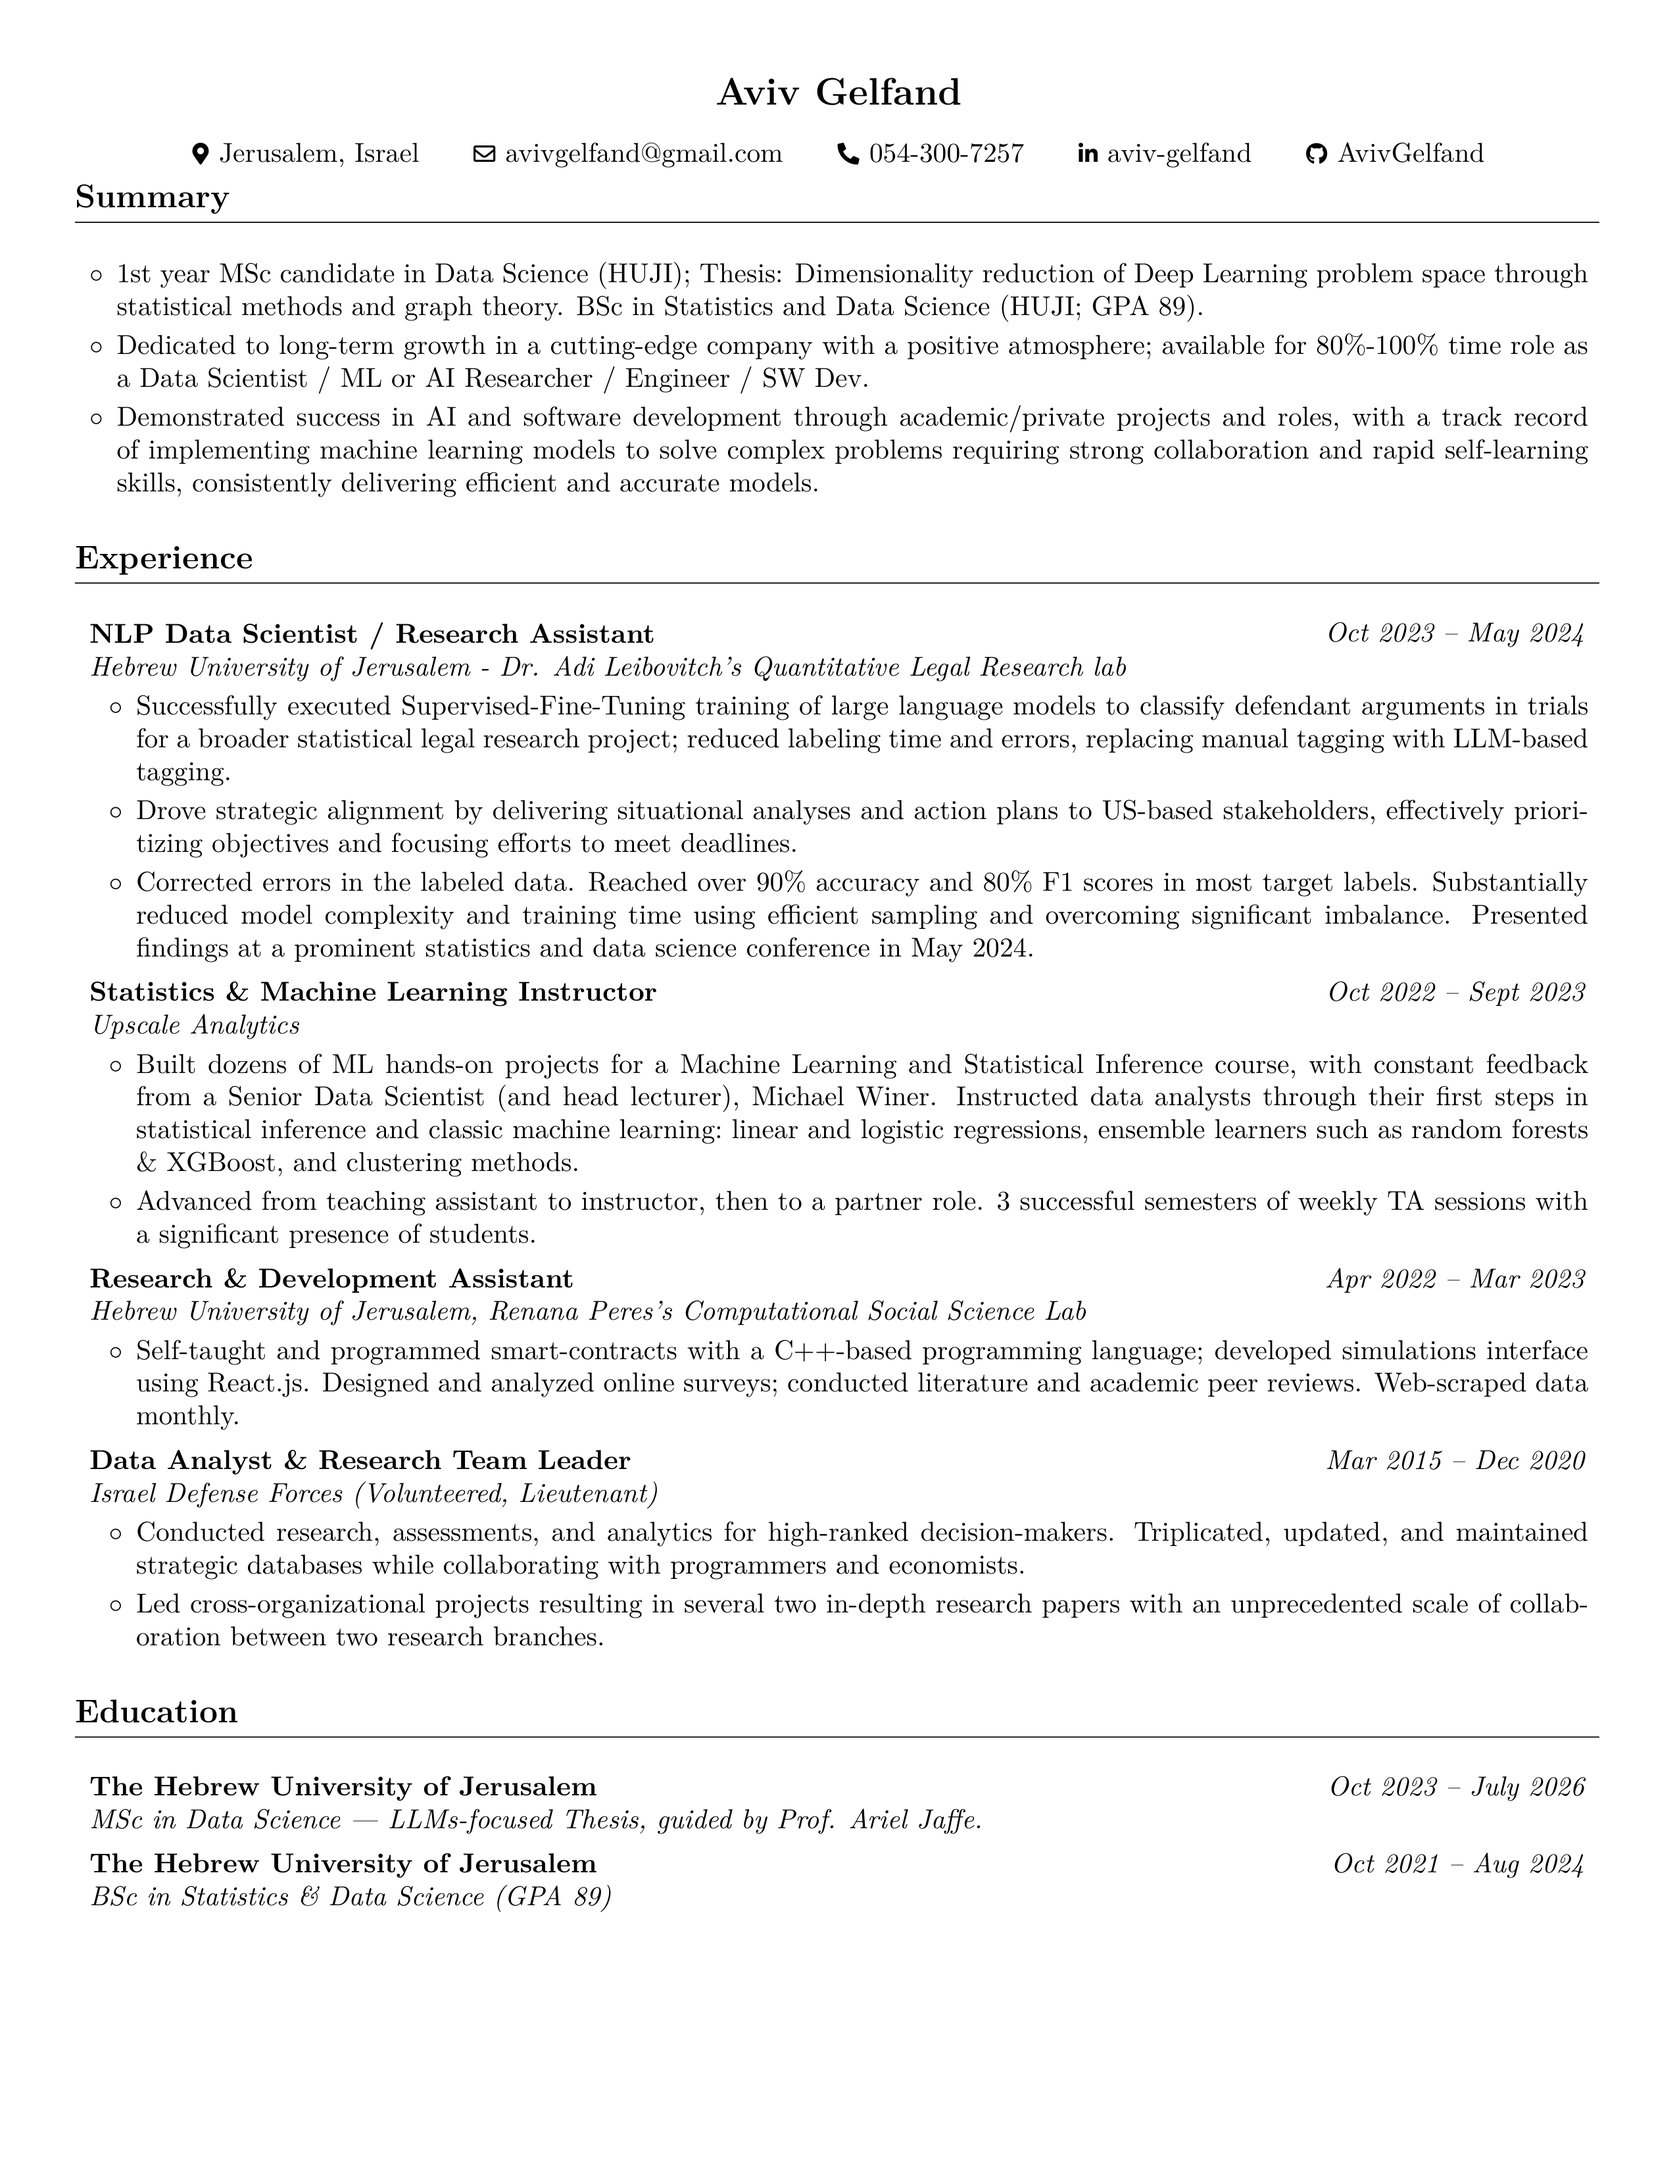
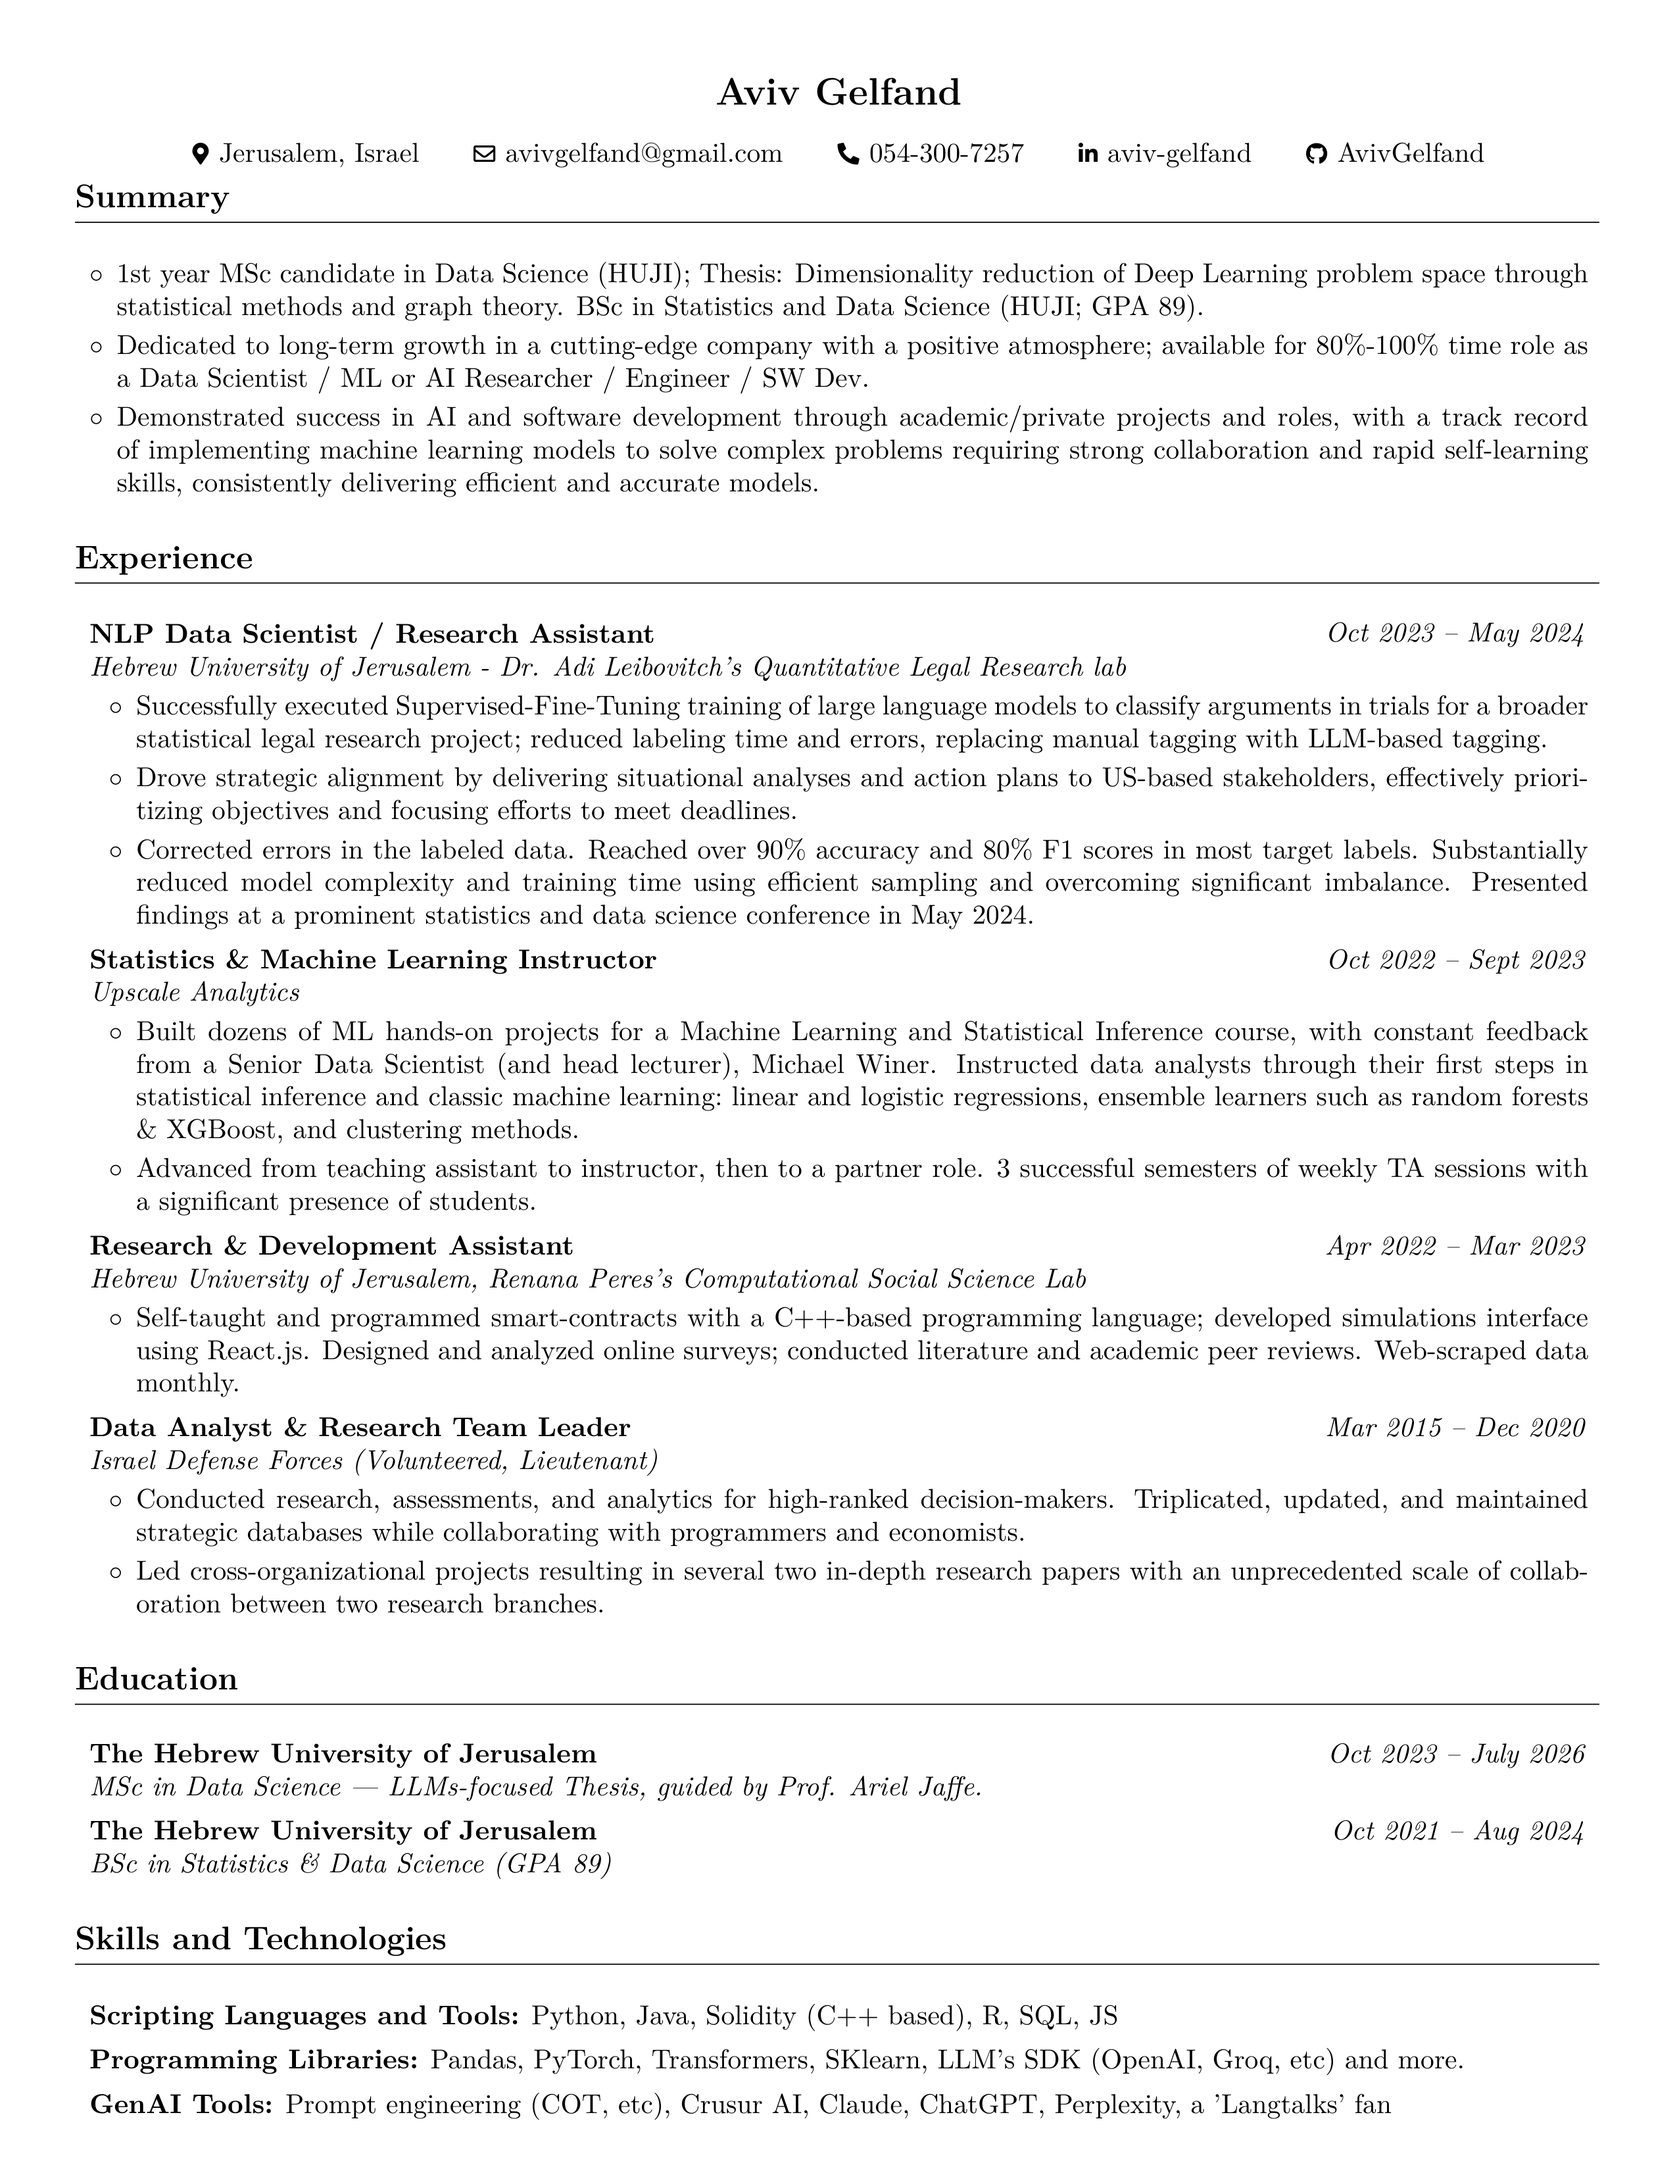
Render the latest CV

diff --git a/Aviv_Gelfand_CV.html b/Aviv_Gelfand_CV.html
@@ -50,7 +50,7 @@
         <h2>Hebrew University of Jerusalem - Dr. Adi Leibovitch's Quantitative Legal Research lab, NLP Data Scientist / Research Assistant</h2>
         <ul>
         <li>Oct 2023 – May 2024</li>
-        <li>Successfully executed Supervised-Fine-Tuning training of large language models to classify defendant arguments in trials for a broader statistical legal research project; reduced labeling time and errors, replacing manual tagging with LLM-based tagging.</li>
+        <li>Successfully executed Supervised-Fine-Tuning training of large language models to classify arguments in trials for a broader statistical legal research project; reduced labeling time and errors, replacing manual tagging with LLM-based tagging.</li>
         <li>Drove strategic alignment by delivering situational analyses and action plans to US-based stakeholders, effectively prioritizing objectives and focusing efforts to meet deadlines.</li>
         <li>Corrected errors in the labeled data. Reached over 90% accuracy and 80% F1 scores in most target labels. Substantially reduced model complexity and training time using efficient sampling and overcoming significant imbalance. Presented findings at a prominent statistics and data science conference in May 2024.</li>
         </ul>

diff --git a/Aviv_Gelfand_CV.tex b/Aviv_Gelfand_CV.tex
@@ -208,7 +208,7 @@
         \vspace{0.08 cm}
         \begin{onecolentry}
             \begin{highlights}
-                \item Successfully executed Supervised-Fine-Tuning training of large language models to classify defendant arguments in trials for a broader statistical legal research project; reduced labeling time and errors, replacing manual tagging with LLM-based tagging.
+                \item Successfully executed Supervised-Fine-Tuning training of large language models to classify arguments in trials for a broader statistical legal research project; reduced labeling time and errors, replacing manual tagging with LLM-based tagging.
                 \item Drove strategic alignment by delivering situational analyses and action plans to US-based stakeholders, effectively prioritizing objectives and focusing efforts to meet deadlines.
                 \item Corrected errors in the labeled data. Reached over 90\% accuracy and 80\% F1 scores in most target labels. Substantially reduced model complexity and training time using efficient sampling and overcoming significant imbalance. Presented findings at a prominent statistics and data science conference in May 2024.
             \end{highlights}

diff --git a/README.md b/README.md
@@ -19,7 +19,7 @@
 ## Hebrew University of Jerusalem - Dr. Adi Leibovitch's Quantitative Legal Research lab, NLP Data Scientist / Research Assistant
 
 - Oct 2023 – May 2024
-- Successfully executed Supervised-Fine-Tuning training of large language models to classify defendant arguments in trials for a broader statistical legal research project; reduced labeling time and errors, replacing manual tagging with LLM-based tagging.
+- Successfully executed Supervised-Fine-Tuning training of large language models to classify arguments in trials for a broader statistical legal research project; reduced labeling time and errors, replacing manual tagging with LLM-based tagging.
 - Drove strategic alignment by delivering situational analyses and action plans to US-based stakeholders, effectively prioritizing objectives and focusing efforts to meet deadlines.
 - Corrected errors in the labeled data. Reached over 90% accuracy and 80% F1 scores in most target labels. Substantially reduced model complexity and training time using efficient sampling and overcoming significant imbalance. Presented findings at a prominent statistics and data science conference in May 2024.
 
